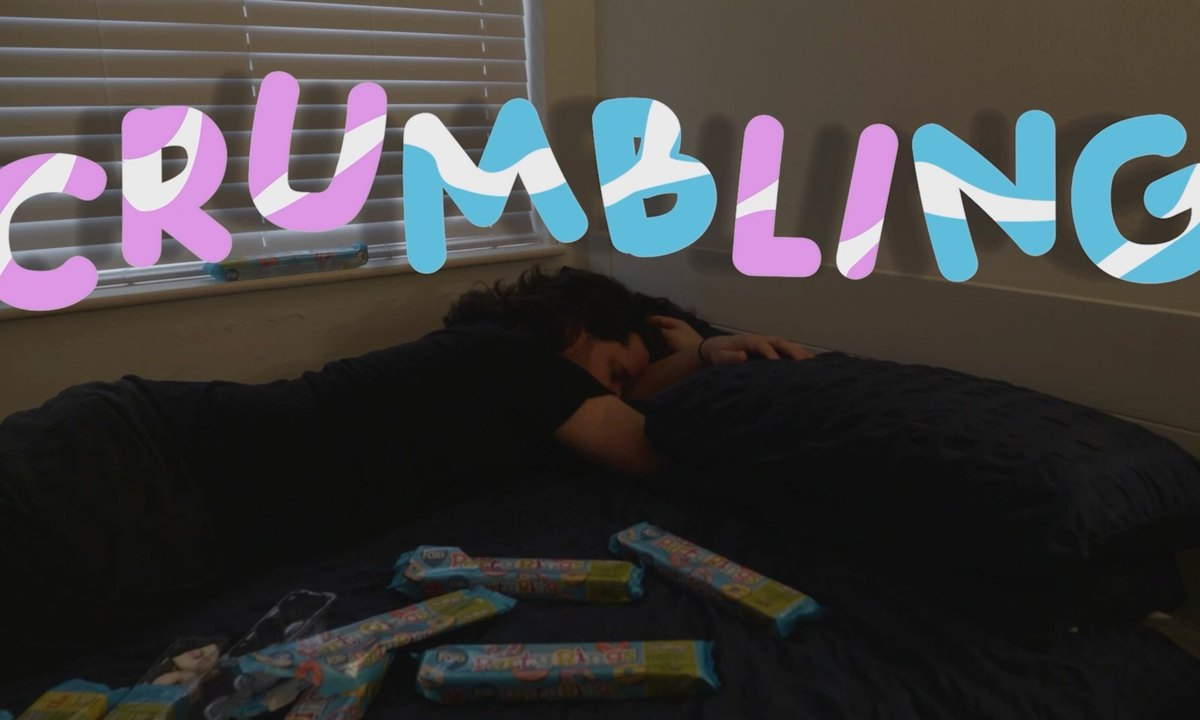
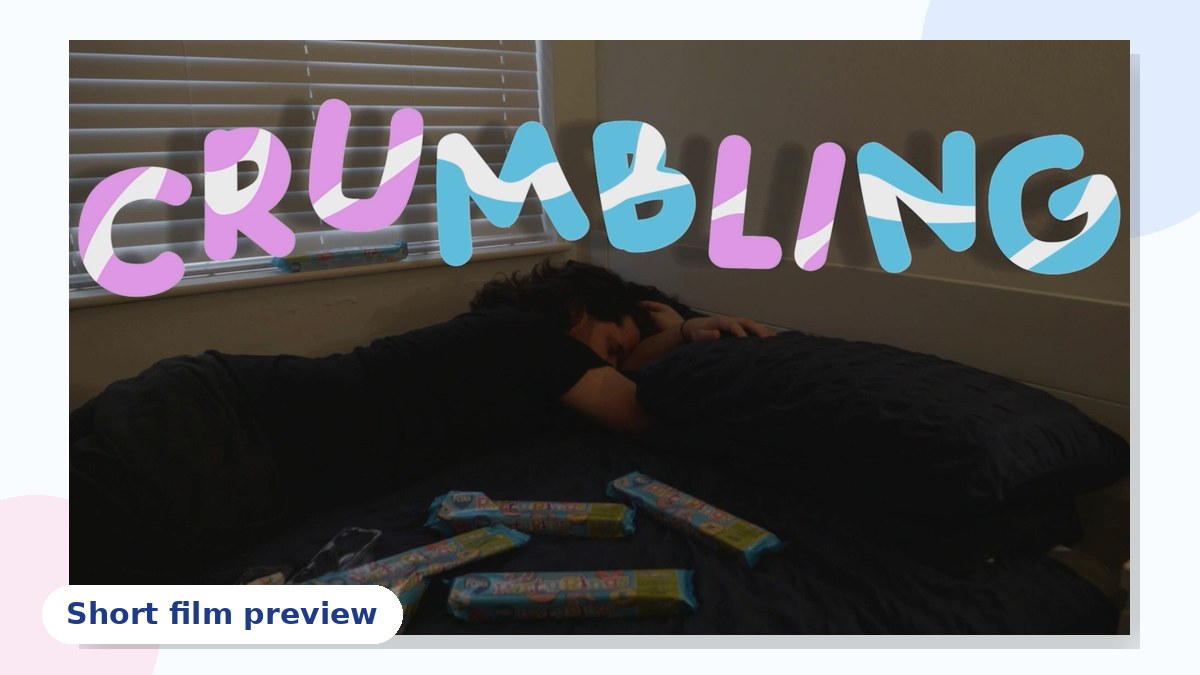
Add files via upload

diff --git a/assets/js/main.js b/assets/js/main.js
@@ -25,12 +25,18 @@ function driveThumb(url){
 const coverMap = {
   kaco: {src: rootPrefix()+'assets/images/covers/kaco.jpg', label: 'Brand guideline preview'},
   noodles: {src: rootPrefix()+'assets/images/covers/noodles.jpg', label: 'Brand guideline preview'},
+  xppen: {src: rootPrefix()+'assets/images/covers/xppen.jpg', label: 'Campaign proposal preview'},
   meituan: {src: rootPrefix()+'assets/images/covers/meituan.jpg', label: 'H5 activity page preview'},
+  'fashion-xhs': {src: rootPrefix()+'assets/images/covers/lofficiel.jpg', label: 'Xiaohongshu account preview'},
+  'campus-media': {src: rootPrefix()+'assets/images/covers/campus-media.jpg', label: 'WeChat editorial preview'},
+  'personal-xhs': {src: rootPrefix()+'assets/images/covers/personal-xhs.jpg', label: 'Personal Xiaohongshu preview'},
   crumbling: {src: rootPrefix()+'assets/images/covers/crumbling.jpg', label: 'Short film preview'},
-  podcast: {src: rootPrefix()+'assets/images/covers/podcast.jpg', label: 'Podcast trailer preview'},
+  podcast: {src: rootPrefix()+'assets/images/covers/podcast.jpg', label: 'Podcast preview'},
   'small-designs': {src: rootPrefix()+'assets/images/covers/small-designs.jpg', label: 'Creative works preview'},
+  youtube: {src: rootPrefix()+'assets/images/covers/youtube.jpg', label: 'Data storytelling preview'},
   tomodachi: {src: rootPrefix()+'assets/images/covers/tomodachi.jpg', label: 'Community analysis preview'},
-  ceps: {src: rootPrefix()+'assets/images/covers/ceps.jpg', label: 'Research poster preview'}
+  ceps: {src: rootPrefix()+'assets/images/covers/ceps.jpg', label: 'Research poster preview'},
+  'news-image': {src: rootPrefix()+'assets/images/covers/news-image.jpg', label: 'News image analysis preview'}
 };
 const caseHeadings = {
   en:{overview:'Project Overview', role:'My Role', process:'Process & Focus', outputs:'Preview & Key Outputs', links:'View Full Materials', summary:'Project Summary', note:'The preview image introduces the project visually. Full files, reports, production logs, and code are opened through the buttons below.'},
@@ -48,11 +54,19 @@ function projectProcess(p){
   };
   return common[p.category] || common.content;
 }
-function coverFor(p){return coverMap[p.id] || null}
+function coverFor(p){return coverMap[p.id] || {src: rootPrefix()+'assets/images/covers/default.jpg', label: loc(p.title)}}
 function renderProjectCover(p, small=false){
   const c = coverFor(p);
-  if(!c || !c.src) return '';
-  return `<figure class="project-cover ${small?'small':''}"><img src="${c.src}" alt="${c.label || loc(p.title)}" loading="lazy"><figcaption>${c.label || loc(p.title)}</figcaption></figure>`;
+  const fallback = rootPrefix()+'assets/images/covers/default.jpg';
+  return `<figure class="project-cover ${small?'small':''}"><img src="${c.src}" alt="${c.label || loc(p.title)}" loading="lazy" onerror="this.onerror=null;this.src='${fallback}'"><figcaption>${c.label || loc(p.title)}</figcaption></figure>`;
+}
+function uniqueProjects(){
+  const seen=new Set();
+  return projects.filter(p=>{
+    if(seen.has(p.id)) return false;
+    seen.add(p.id);
+    return true;
+  });
 }
 function projectCard(p){return `<article class="card project-card" data-category="${p.category}">
   ${renderProjectCover(p,true)}
@@ -66,7 +80,7 @@ function renderProjects(){
  const grid=document.querySelector('#projects-grid'); if(!grid) return;
  const lang=getLang(); grid.innerHTML='';
  const active=document.querySelector('.filter.active')?.dataset.filter || 'all';
- const shown=projects.filter(p=>active==='all'||p.category===active);
+ const shown=uniqueProjects().filter(p=>active==='all'||p.category===active);
  grid.innerHTML=shown.map(projectCard).join('');
  document.querySelectorAll('.filter').forEach(f=>{f.textContent=f.dataset.filter==='all'?(lang==='en'?'All':'全部'):tr('categories.'+f.dataset.filter);f.onclick=()=>{document.querySelectorAll('.filter').forEach(x=>x.classList.remove('active'));f.classList.add('active');renderProjects()}})
 }
@@ -106,13 +120,8 @@ function renderProjectPage(){
  </div></section>`;
 }
 function renderGroupedSections(){
- const mount=document.querySelector('#grouped-projects'); if(!mount) return;
- const content = projects.filter(p=>p.category==='content');
- const data = projects.filter(p=>p.category==='data');
- const groups=[
-  ['campaign',content.filter(p=>p.subcat==='campaign')],['social',content.filter(p=>p.subcat==='social')],['campus',content.filter(p=>p.subcat==='campus')],['creative',content.filter(p=>p.subcat==='creative')],['extra',content.filter(p=>p.subcat==='extra')],['featuredData',data.filter(p=>p.subcat==='featuredData')],['moreData',data.filter(p=>p.subcat==='moreData')]
- ];
- mount.innerHTML=groups.filter(([,items])=>items.length).map(([key,items])=>`<h3 class="subsection-title">${tr('subcats.'+key)}</h3><div class="project-grid">${items.map(projectCard).join('')}</div>`).join('');
+ const mount=document.querySelector('#grouped-projects');
+ if(mount) mount.innerHTML='';
 }
 function renderAll(){initLangButtons();renderStaticText();renderProjects();renderGroupedSections();renderProjectPage()}
 document.addEventListener('DOMContentLoaded',renderAll);

diff --git a/index.html b/index.html
@@ -63,7 +63,7 @@
   <section class="section" id="projects">
     <div class="container">
       <div class="section-head">
-        <div><p class="kicker" data-i18n="nav.projects">Projects</p><h2 data-i18n="featured">Featured Projects</h2></div>
+        <div><p class="kicker" data-i18n="nav.projects">Projects</p><h2>Selected Projects</h2></div>
       </div>
       <div class="filters" aria-label="Project filters">
         <button class="filter active" data-filter="all">All</button>
@@ -72,13 +72,6 @@
         <button class="filter" data-filter="data">Data Analytics</button>
       </div>
       <div id="projects-grid" class="project-grid"></div>
-    </div>
-  </section>
-
-  <section class="section" id="more">
-    <div class="container">
-      <div class="section-head"><div><p class="kicker" data-i18n="more">More Works</p><h2>Project Archive</h2></div></div>
-      <div id="grouped-projects"></div>
     </div>
   </section>
 

diff --git a/assets/css/styles.css b/assets/css/styles.css
@@ -30,3 +30,15 @@
 @supports not selector(:has(*)) {
   .project-card{min-height:0;}
 }
+
+
+/* Final preview-image fix: every project uses one stable local cover image. */
+.project-card{min-height:unset;}
+.project-card .project-cover.small{height:auto; aspect-ratio:16/9; margin-bottom:18px; background:#f8fbff;}
+.project-cover{background:#f8fbff;}
+.project-cover img{width:100%;height:100%;object-fit:contain;display:block;background:#f8fbff;}
+.project-cover.small img{aspect-ratio:auto;}
+.project-cover figcaption{font-size:.72rem;max-width:calc(100% - 24px);white-space:nowrap;overflow:hidden;text-overflow:ellipsis;}
+.project-cover:not(.small){aspect-ratio:16/9;display:flex;align-items:center;justify-content:center;}
+.project-cover:not(.small) img{max-height:100%;height:100%;object-fit:contain;}
+@media (max-width:720px){.project-card .project-cover.small{aspect-ratio:16/10}.project-cover figcaption{font-size:.68rem}}

diff --git a/README.md b/README.md
@@ -9,3 +9,6 @@ Changes in this version:
 - CV and LinkedIn links are connected.
 
 Upload the contents of this folder to the repository root: `index.html`, `assets/`, `projects/`, and `README.md`.
+
+
+Update: Project listing has been deduplicated. Each project appears only once in the Projects section; filters show the same unique list by category.
